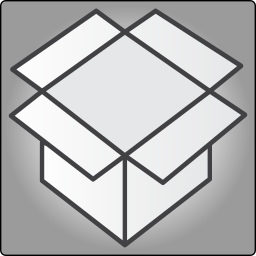
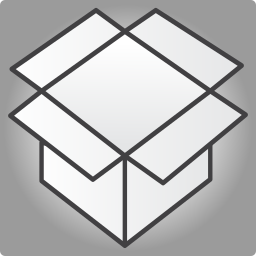
Taiyou Framework v24.2
Updated Packpage Manager Icon
And now Taiyou Framework can run with Pygame 2.0
Added sine_square wave to Frequency Generator

diff --git a/Taiyou/System/SystemApps/TaiyouUI/MAIN/UI/Widget/__init__.py b/Taiyou/System/SystemApps/TaiyouUI/MAIN/UI/Widget/__init__.py
@@ -30,14 +30,18 @@ class Widget_Controller:
         self.ContentManager = pContentManager
         self.Opacity = 255
         self.ObjectOffset = (0, 0)
+        self.WidgetSurface = pygame.Surface((self.Rectangle[2], self.Rectangle[3]), pygame.SRCALPHA)
+
+    def UpdateRect(self):
+        self.WidgetSurface = pygame.Surface((self.Rectangle[2], self.Rectangle[3]), pygame.SRCALPHA)
 
     def Draw(self, DISPLAY):
-        WidgetSurface = pygame.Surface((self.Rectangle[2], self.Rectangle[3]), pygame.SRCALPHA)
-        WidgetSurface.set_alpha(self.Opacity)
+        self.WidgetSurface.fill((0, 0, 0, 0))
+        self.WidgetSurface.set_alpha(self.Opacity)
         for widget in self.WidgetCollection:
-            widget.Render(WidgetSurface)
+            widget.Render(self.WidgetSurface)
 
-        DISPLAY.blit(WidgetSurface, (self.Rectangle[0], self.Rectangle[1]))
+        DISPLAY.blit(self.WidgetSurface, (self.Rectangle[0], self.Rectangle[1]))
 
         if not self.LastInteractionID == -1:
             self.WidgetCollection[self.LastInteractionID].InteractionType = None
@@ -75,7 +79,7 @@ class Widget_Controller:
                     ColideRect = pygame.Rect(self.ObjectOffset[0] + self.Rectangle[0] + widget.Rectangle[0], self.ObjectOffset[1] + self.Rectangle[1] + widget.Rectangle[1], widget.Rectangle[2], widget.Rectangle[3])
                     if ColideRect.collidepoint(pygame.mouse.get_pos()):
                         if widget.EventUpdateable:
-                            widget.CursorOffset = (self.ObjectOffset[0] + self.Rectangle[0] + widget.Rectangle[0], self.ObjectOffset[1] + self.Rectangle[1] + widget.Rectangle[1])
+                            widget.CursorOffset = (ColideRect[0], ColideRect[1])
                             widget.EventUpdate(event)
                         widget.Active = True
                     else:
@@ -184,15 +188,18 @@ class Widget_Label:
         self.Rectangle = Utils.Convert.List_PygameRect((X, Y, self.Content.GetFont_width(self.FontName, FontSize, self.Text), self.Content.GetFont_height(self.FontName, FontSize, self.Text)))
         self.AwaysUpdate = False
         self.CursorOffset = (0, 0)
+        self.IsVisible = True
 
     def Render(self, DISPLAY):
+        if not self.IsVisible:
+            return
         self.Content.FontRender(DISPLAY, self.FontName,self.FontSize, self.Text, self.Color, self.Rectangle[0], self.Rectangle[1])
 
     def Update(self):
-        self.Rectangle = Utils.Convert.List_PygameRect((self.X, self.Y, self.Content.GetFont_width(self.FontName, self.FontSize, self.Text), self.Content.GetFont_height(self.FontName, self.FontSize, self.Text)))
+        if not self.IsVisible:
+            return
 
-    def EventUpdate(self, event):
-        pass
+        self.Rectangle = Utils.Convert.List_PygameRect((self.X, self.Y, self.Content.GetFont_width(self.FontName, self.FontSize, self.Text), self.Content.GetFont_height(self.FontName, self.FontSize, self.Text)))
 
 class Widget_ProgressBar:
     def __init__(self, pContentManager, pInitialProgress, pMaxValue, pRectangle, pWidgetID):
@@ -228,7 +235,7 @@ class Widget_ProgressBar:
 
 
 class Widget_Button:
-    def __init__(self, pContentManager,Text, FontSize, X, Y, WidgetID):
+    def __init__(self, pContentManager, Text, FontSize, X, Y, WidgetID):
         if WidgetID == -1:
             raise ValueError("WidgetID cannot be -1")
         self.ID = WidgetID
@@ -245,7 +252,6 @@ class Widget_Button:
         self.TextWidth = self.Content.GetFont_width("/Ubuntu_Bold.ttf", self.FontSize, self.Text)
         self.TextHeight = self.Content.GetFont_height("/Ubuntu_Bold.ttf", self.FontSize, self.Text)
         self.Rectangle = Convert.List_PygameRect((X, Y, self.TextWidth + 2, self.TextHeight + 2))
-        self.LastRect = self.Rectangle
         self.Surface = pygame.Surface((self.Rectangle[2], self.Rectangle[3]))
         self.Centred_X = self.Rectangle[2] / 2 - self.Content.GetFont_width("/Ubuntu_Bold.ttf", self.FontSize - 2, self.Text) / 2
         self.Centred_Y = self.Rectangle[3] / 2 - self.Content.GetFont_height("/Ubuntu_Bold.ttf", self.FontSize - 2, self.Text) / 2
@@ -253,10 +259,12 @@ class Widget_Button:
         self.CursorOffset = (0, 0)
         self.BgColor = UI.ThemesManager_GetProperty("Button_BackgroundColor")
         self.IndicatorColor = UI.ThemesManager_GetProperty("Button_Inactive_IndicatorColor")
+        self.UpdateRectangle()
+        self.ColideRect = pygame.Rect(0, 0, 5, 5)
 
     def SetText(self, text):
         self.Text = str(text)
-        self.UpdateRectangle()
+        self.UpdateRectangle(True)
 
     def Render(self, DISPLAY):
         if not self.IsVisible:
@@ -275,7 +283,7 @@ class Widget_Button:
         if self.ButtonState == 2:
             self.ButtonState = 0
 
-    def UpdateRectangle(self):
+    def UpdateRectangle(self, UpdateSurface=False):
         # -- Update all Size and Position Variables -- #
         self.TextWidth = self.Content.GetFont_width("/Ubuntu_Bold.ttf", self.FontSize, self.Text)
         self.TextHeight = self.Content.GetFont_height("/Ubuntu_Bold.ttf", self.FontSize, self.Text)
@@ -283,17 +291,12 @@ class Widget_Button:
         self.Centred_X = self.Rectangle[2] / 2 - self.Content.GetFont_width("/Ubuntu_Bold.ttf", self.FontSize - 2, self.Text) / 2
         self.Centred_Y = self.Rectangle[3] / 2 - self.Content.GetFont_height("/Ubuntu_Bold.ttf", self.FontSize - 2, self.Text) / 2
 
-        self.Surface = pygame.Surface((self.Rectangle[2], self.Rectangle[3]))
+        if UpdateSurface:
+            self.Surface = pygame.Surface((self.Rectangle[2], self.Rectangle[3]))
 
     def Update(self):
         if not self.IsVisible:
             return
-
-        # -- Check if surface has the correct size -- #
-        if not self.LastRect == self.Rectangle:
-            self.UpdateRectangle()
-
-            self.LastRect = self.Rectangle
 
         self.BgColor = UI.ThemesManager_GetProperty("Button_BackgroundColor")
         self.IndicatorColor = UI.ThemesManager_GetProperty("Button_Inactive_IndicatorColor")

diff --git a/Taiyou/System/Core/__init__.py b/Taiyou/System/Core/__init__.py
@@ -17,7 +17,7 @@
 
 # -- Modules Versions -- #
 def Get_Version():
-    return "3.8"
+    return "3.9"
 
 def Get_ShapeVersion():
     return "2.2"
@@ -32,7 +32,7 @@ def Get_TaiyouMainVersion():
     return "3.9"
 
 def Get_ContentManagerVersion():
-    return "3.6"
+    return "3.7"
 
 def Get_FXVersion():
     return "1.3"
@@ -404,6 +404,9 @@ def Init():
                 AudioPlayblackChannels = int(SplitedParms[1].rstrip())
 
                 print("Taiyou.Runtime.Init : AudioPlaybackChannels was set to:" + str(AudioPlayblackChannels))
+
+    # WORKAROUND : Fix bug to run at new Pygame 2.0
+    os.environ["PYGAME_BLEND_ALPHA_SDL2"] = "1"
 
     if not IgnoreSDL2Parameters:  # -- Set SDL2 Parameters (if enabled) -- #
         # -- Set the Enviroments Variables -- #

diff --git a/Taiyou/System/Core/CONTENT_MANAGER/__init__.py b/Taiyou/System/Core/CONTENT_MANAGER/__init__.py
@@ -653,6 +653,8 @@ class ContentManager:
             if FrequencyType == "sine":
                 Value = int(round(max_sample * math.sin(2 * math.pi * Frequency * t)))
 
+            if FrequencyType == "sine_square":
+                Value = int(round(max_sample * np.sign(math.sin(2 * math.pi * Frequency * t)))) - int(round(max_sample * math.sin(2 * math.pi * Frequency * t)))
 
             # Mono Sound Output
             buf[s][0] = Value
